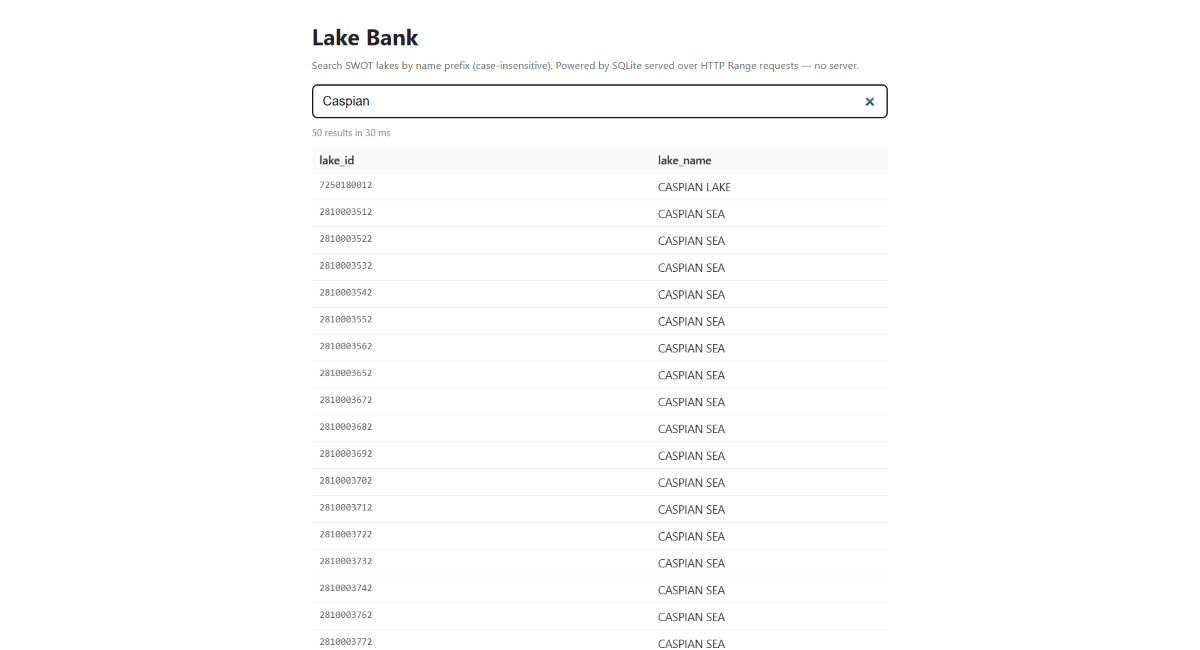
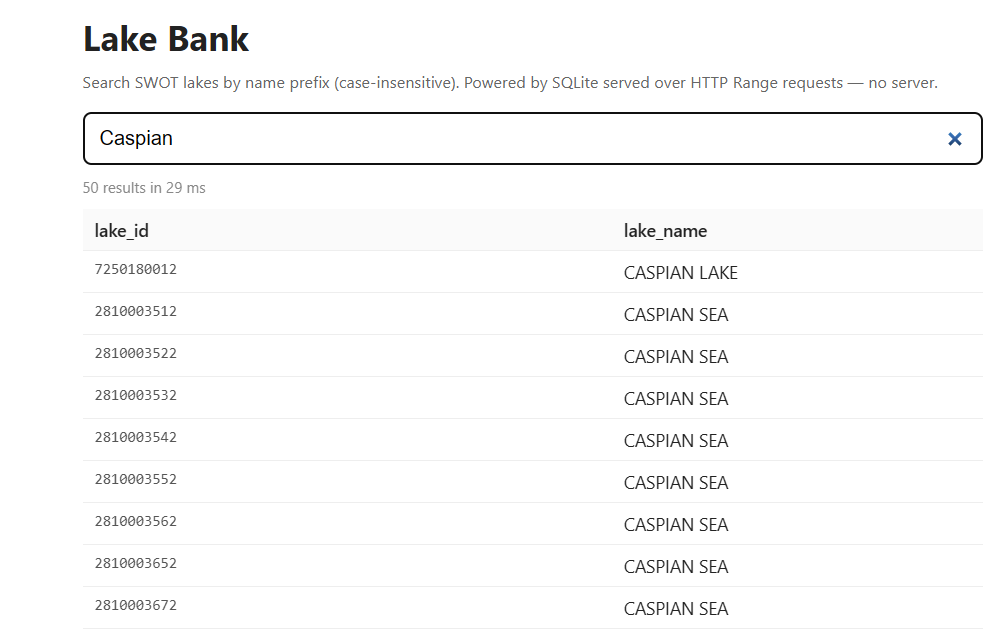
change og-card image

diff --git a/web/index.html b/web/index.html
@@ -13,8 +13,8 @@
   <meta property="og:description" content="Search NASA SWOT lakes by name. Serverless, runs in the browser against a SQLite database hosted on GitHub.">
   <meta property="og:url" content="https://0xnima.github.io/lake-bank/web/">
   <meta property="og:image" content="https://0xnima.github.io/lake-bank/web/og-card.png">
-  <meta property="og:image:width" content="1200">
-  <meta property="og:image:height" content="650">
+  <meta property="og:image:width" content="1007">
+  <meta property="og:image:height" content="631">
 
   <!-- Twitter -->
   <meta name="twitter:card" content="summary_large_image">
